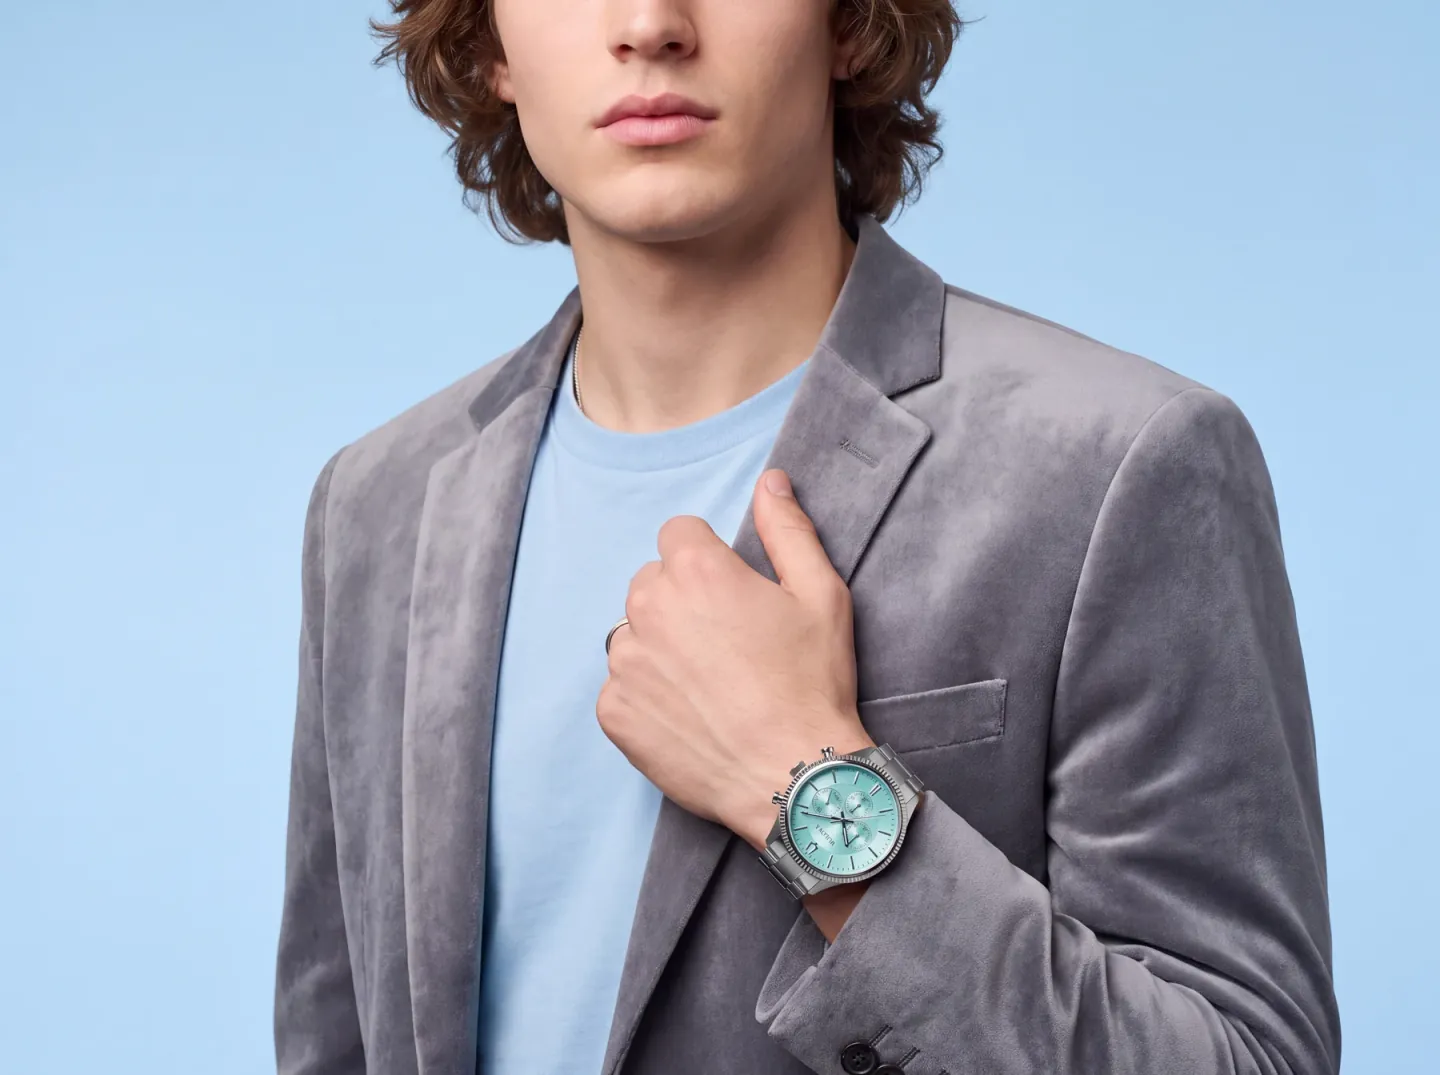
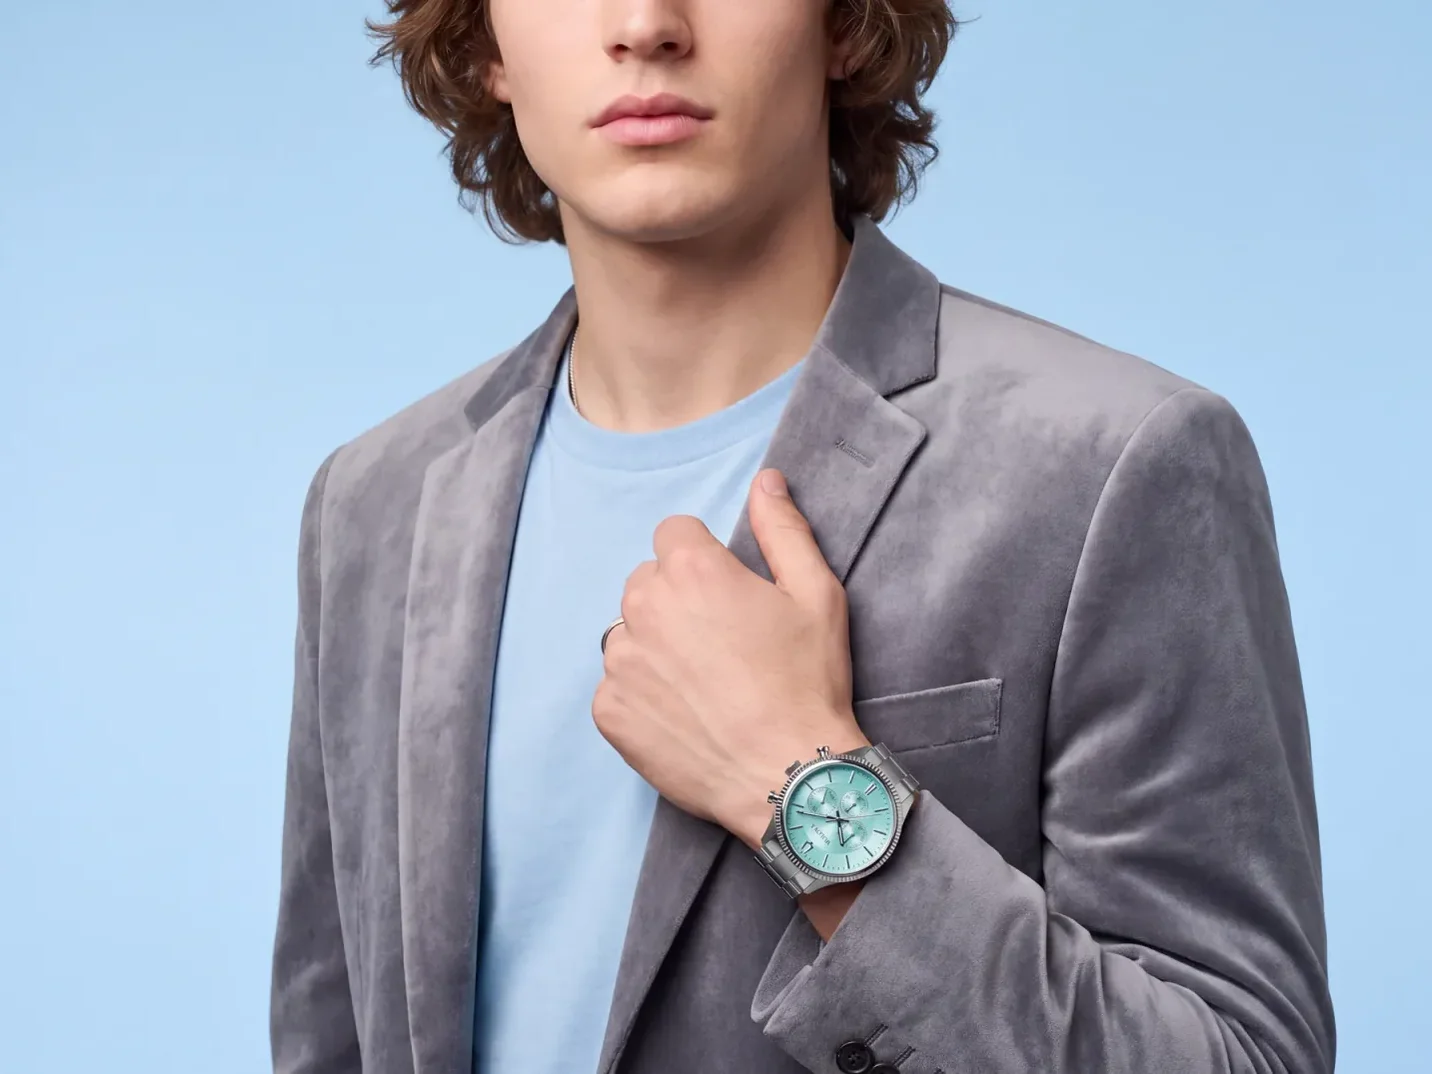
Fotos nuevas en Relojes de hombre y Relojes de mujer
Hombre con saco gris y cronografo turquesa, y mujer con vestido celeste y reloj de esfera celeste (generada en Higgsfield), en WebP de alta calidad; encuadre ajustado para computadora y celular y textos alternativos nuevos.

diff --git a/catalogo.html b/catalogo.html
@@ -244,14 +244,14 @@ else if(location.pathname.slice(-13) === 'catalogo.html' && location.hostname ==
 <section id="generos" aria-label="Colecciones">
   <div class="gen-grid">
     <a href="/relojes-hombre" class="gen-tile gen-hombre gen-reveal" onclick="irAGenero('hombre',event)">
-      <img src="img/genero-hombre.webp" alt="Reloj Bulova para hombre" loading="lazy" decoding="async">
+      <img src="img/genero-hombre.webp" alt="Hombre con saco gris y reloj cronógrafo de acero con esfera turquesa" loading="lazy" decoding="async">
       <div class="gen-info">
         <h2 class="gen-titulo">Relojes<br>de hombre</h2>
         <span class="hero-btn">Ver relojes</span>
       </div>
     </a>
     <a href="/relojes-mujer" class="gen-tile gen-mujer gen-reveal" onclick="irAGenero('mujer',event)">
-      <img src="img/genero-mujer.webp" alt="Reloj Bulova para mujer" loading="lazy" decoding="async">
+      <img src="img/genero-mujer.webp" alt="Mujer con vestido celeste y reloj de acero con esfera celeste" loading="lazy" decoding="async">
       <div class="gen-info">
         <h2 class="gen-titulo">Relojes<br>de mujer</h2>
         <span class="hero-btn">Ver relojes</span>

diff --git a/css/catalogo/generos.css b/css/catalogo/generos.css
@@ -3,8 +3,8 @@
   .gen-grid{display:grid;grid-template-columns:1fr 1fr;gap:clamp(16px,3.5vw,48px);max-width:1500px;margin:0 auto;}
   .gen-tile{position:relative;display:block;aspect-ratio:4/3;overflow:hidden;background:#dbe8f6;color:#fff;text-decoration:none;-webkit-tap-highlight-color:transparent;}
   .gen-tile img{width:100%;height:100%;object-fit:cover;display:block;transition:transform .9s var(--ease);}
-  .gen-hombre img{object-position:60% 50%;}
-  .gen-mujer img{object-position:38% 50%;}
+  .gen-hombre img{object-position:50% 40%;}
+  .gen-mujer img{object-position:64% 50%;}
   .gen-tile::after{content:'';position:absolute;left:0;right:0;bottom:0;height:62%;pointer-events:none;background:linear-gradient(to top,rgba(14,26,48,.58) 0%,rgba(14,26,48,.28) 55%,rgba(14,26,48,0) 100%);}
   .gen-info{position:absolute;z-index:2;left:clamp(22px,3vw,48px);right:20px;bottom:clamp(22px,3vw,44px);}
   .gen-titulo{font-family:var(--font-titulo);font-size:var(--fs-titulo);font-weight:800;letter-spacing:.01em;line-height:24px;text-transform:uppercase;margin-bottom:20px;}

diff --git a/sw.js b/sw.js
@@ -1,7 +1,7 @@
 // Service Worker de APHILLIPS STORE â€” version del cache
 // Cada vez que publiques cambios en HTML, CSS o JS, sube este numero
 // (ej: 'aphillips-v3'). Al activarse la version nueva se borra el cache viejo.
-const CACHE_NAME = 'aphillips-v180';
+const CACHE_NAME = 'aphillips-v181';
 
 // Solo el "cascaron" de la app: nunca datos, nunca Firebase, nunca fuentes externas.
 // Si agregas o renombras un archivo en /css o /js, agregalo tambien aqui.
